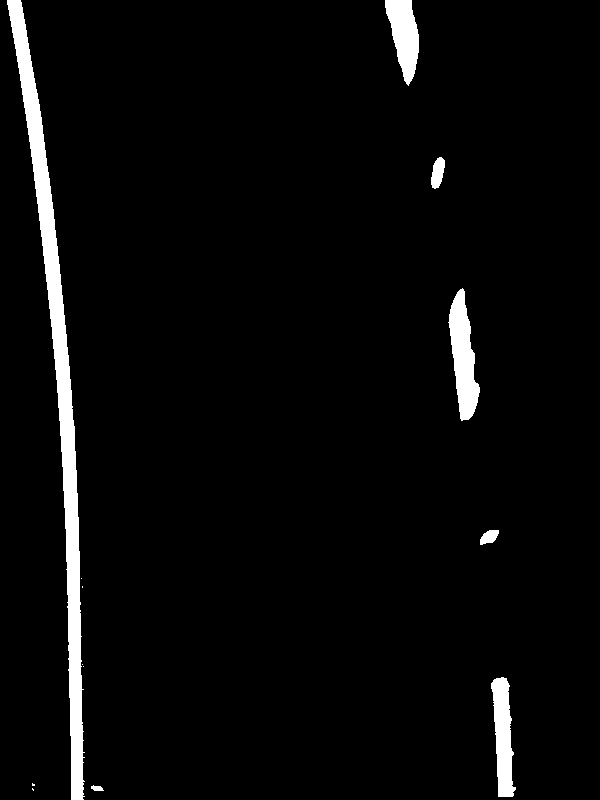
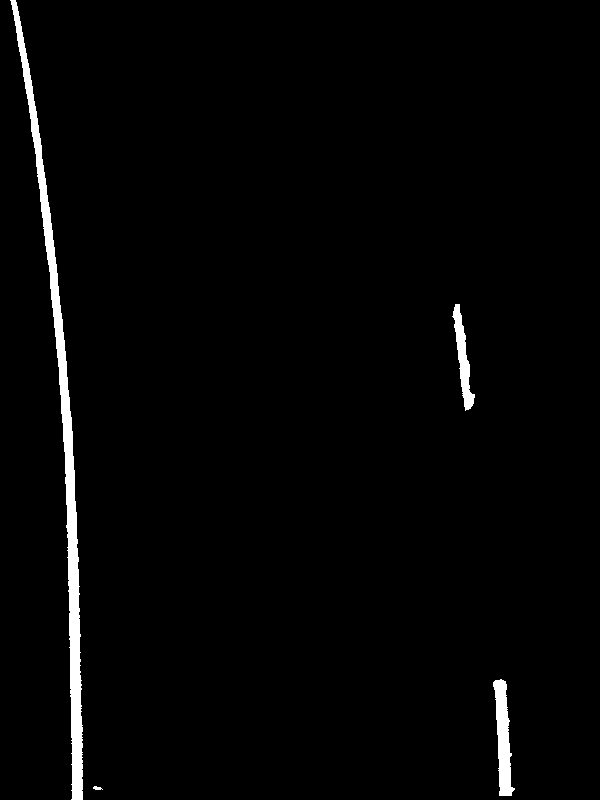
dividing left right

diff --git a/lane_finder.py b/lane_finder.py
@@ -1,0 +1,106 @@
+import cv2
+import numpy as np
+import matplotlib.pyplot as plt
+
+
+n_windows = 12
+slider_width = 150
+minpix = 20
+margin = 50
+
+
+#havly inspired by lesson example
+def find_line(img):
+    histogram = np.sum(img[int(img.shape[0] / 2):,:], axis=0)
+    out_img = np.dstack((img,img,img))
+
+    nonzero = img.nonzero()
+    nonzeroy = np.array(nonzero[0])
+    nonzerox = np.array(nonzero[1])
+
+    # Create empty lists to receive left and right lane pixel indices
+    left_lane_inds = []
+    right_lane_inds = []
+
+
+    image_heigth = img.shape[1]
+    image_width = img.shape[0]
+    center = int(image_width/2)
+
+    slider_heigth = int(image_heigth/n_windows)+15
+
+
+    leftx_base = np.argmax(histogram[:center])
+    rightx_base = np.argmax(histogram[center:]) + center
+
+    # Current positions to be updated for each window
+    leftx_current = leftx_base
+    rightx_current = rightx_base
+
+    for window in range(n_windows):
+
+        win_y_low = img.shape[0] - (window + 1) * slider_heigth
+        win_y_high = img.shape[0] - window * slider_heigth
+        win_xleft_low = leftx_current - margin
+        win_xleft_high = leftx_current + margin
+        win_xright_low = rightx_current - margin
+        win_xright_high = rightx_current + margin
+
+        cv2.rectangle(out_img,(win_xleft_low,win_y_low),(win_xleft_high,win_y_high),(0,255,0), 2)
+        cv2.rectangle(out_img,(win_xright_low,win_y_low),(win_xright_high,win_y_high),(0,255,0), 2)
+
+        good_left_inds = ((nonzeroy >= win_y_low) & (nonzeroy < win_y_high) & (nonzerox >= win_xleft_low) & (
+        nonzerox < win_xleft_high)).nonzero()[0]
+        good_right_inds = ((nonzeroy >= win_y_low) & (nonzeroy < win_y_high) & (nonzerox >= win_xright_low) & (
+        nonzerox < win_xright_high)).nonzero()[0]
+        # Append these indices to the lists
+        left_lane_inds.append(good_left_inds)
+        right_lane_inds.append(good_right_inds)
+        # If you found > minpix pixels, recenter next window on their mean position
+        if len(good_left_inds) > minpix:
+            leftx_current = np.int(np.mean(nonzerox[good_left_inds]))
+        if len(good_right_inds) > minpix:
+            rightx_current = np.int(np.mean(nonzerox[good_right_inds]))
+
+    # Concatenate the arrays of indices
+    left_lane_inds = np.concatenate(left_lane_inds)
+    right_lane_inds = np.concatenate(right_lane_inds)
+
+    # Extract left and right line pixel positions
+    leftx = nonzerox[left_lane_inds]
+    lefty = nonzeroy[left_lane_inds]
+    rightx = nonzerox[right_lane_inds]
+    righty = nonzeroy[right_lane_inds]
+
+    # Fit a second order polynomial to each
+    try:
+        left_fit = np.polyfit(lefty, leftx, 2)
+        right_fit = np.polyfit(righty, rightx, 2)
+
+        ploty = np.linspace(0, img.shape[0] - 1, img.shape[0])
+        left_fitx = left_fit[0] * ploty ** 2 + left_fit[1] * ploty + left_fit[2]
+        right_fitx = right_fit[0] * ploty ** 2 + right_fit[1] * ploty + right_fit[2]
+
+        out_img[nonzeroy[left_lane_inds], nonzerox[left_lane_inds]] = [255, 0, 0]
+        out_img[nonzeroy[right_lane_inds], nonzerox[right_lane_inds]] = [0, 0, 255]
+        plt.imshow(out_img)
+        plt.plot(left_fitx, ploty, color='yellow')
+        plt.plot(right_fitx, ploty, color='yellow')
+        plt.xlim(0, image_heigth)
+        plt.ylim(image_width, 0)
+    except:
+        pass
+    # plt.show()
+    return out_img
+
+
+
+
+
+
+
+
+
+
+
+

diff --git a/start.py b/start.py
@@ -26,7 +26,7 @@ cv2.imwrite("report/after_calibration_road.png", dst)
 
 
 #flatten perspective
-image_path = 'report/sample5.png'
+image_path = 'report/sample1.png'
 img = cv2.imread(image_path)
 dst = cv2.undistort(img, camear_calibration['mtx'], camear_calibration['dist'], None, camear_calibration['mtx'])
 flat, TransformMatrix = flat_perspective(dst)
@@ -38,8 +38,8 @@ from image_preprocessors import s_binnary
 
 out_s = s_binnary(flat)
 cv2.imwrite(image_path.replace('sample','s_binary_sample'),out_s)
-plt.imshow(out_s,cmap='gray')
-plt.show()
+# plt.imshow(out_s,cmap='gray')
+# plt.show()
 
 
 # B channel from LAB color spaces
@@ -60,6 +60,10 @@ from image_preprocessors import combine_preprocesors
 pre = combine_preprocesors(flat)
 cv2.imwrite(image_path.replace('sample','pre_binary_sample'),pre)
 
+##Finding Lines
+from lane_finder import find_line
+find_line(pre)
+
 
 
 
@@ -77,6 +81,7 @@ for x in images:
 
 
     out = combine_preprocesors(flat)
+    out = find_line(out)
     filename = x.replace('frames',OUTPUT_DIR)
     print(filename)
     # plt.imshow(out,cmap='gray')
